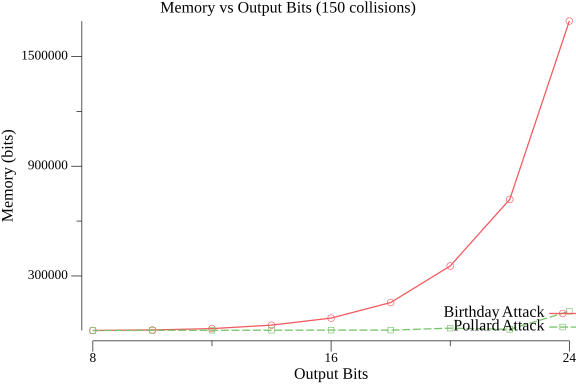
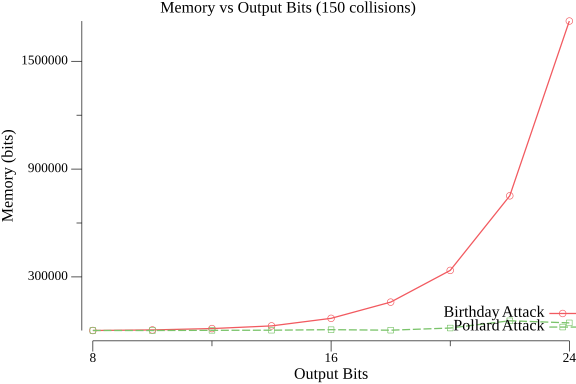
Рабочая версия

diff --git a/lab2/myattacks/pollard_attack.go b/lab2/myattacks/pollard_attack.go
@@ -20,6 +20,7 @@ func randomState(outBits int) (string, error) {
 	return fmt.Sprintf("%0*b", outBits, n), nil
 }
 
+// проверяет, является ли значение отличительным
 func isDistinguished(s string, distinguishedBits int) bool {
 	if len(s) < distinguishedBits {
 		return false
@@ -32,45 +33,22 @@ func isDistinguished(s string, distinguishedBits int) bool {
 	return true
 }
 
-// инъективная функция конкатенации трёх нулей в конец
+// инъективная функция (конкатенация четырёх нулей в конец)
 func P(x string) string {
 	return x + "0000"
 }
 
-func binToHex(binStr string) (string, error) {
-	n, ok := new(big.Int).SetString(binStr, 2)
-	if !ok {
-		return "", errors.New("invalid binary string")
-	}
-	return fmt.Sprintf("%x", n), nil
-}
-
 // Функция для преобразования двоичной строки в байтовый срез
 func binToBytes(binStr string) ([]byte, error) {
-	// Проверка, что строка содержит только '0' и '1'
 	for _, c := range binStr {
 		if c != '0' && c != '1' {
 			return nil, errors.New("binary string contains invalid characters")
 		}
 	}
-	hexStr, _ := binToHex(binStr)
-	// // Дополнение строки нулями слева, чтобы её длина была кратна 8
-	// padding := (8 - len(binStr)%8) % 8
-	// binStr = fmt.Sprintf("%s%s", string(make([]byte, padding)), binStr)
-
-	// // Преобразование в 16-ричную строку
-	// n, ok := new(big.Int).SetString(binStr, 2)
-	// if !ok {
-	// 	return nil, errors.New("invalid binary string")
-	// }
-	// hexStr := fmt.Sprintf("%x", n)
-
-	// // Если длина нечётная, добавляем ведущий 0 (hex требует чётной длины)
+	hexStr, _ := BinToHex(binStr)
 	if len(hexStr)%2 != 0 {
 		hexStr = "0" + hexStr
 	}
-
-	// Декодируем hex в байты
 	return hex.DecodeString(hexStr)
 }
 
@@ -80,9 +58,7 @@ func chainFunc(x string, outBits int) (string, error) {
 	if err != nil {
 		return "", err
 	}
-	// Применяем инъективную функцию:
 	appended := P(hash)
-	// appended имеет длину outBits+3, поэтому берём последние outBits символов:
 	if len(appended) < outBits {
 		return "", errors.New("chainFunc: result length too short")
 	}
@@ -93,11 +69,9 @@ func chainFunc(x string, outBits int) (string, error) {
 // применяем разность d = i - j к цепочке с большим номером, затем итеративно идём синхронно,
 // пока не найдём точное совпадение.
 func findExactCollision(seedA, seedB string, delta int, outBits int) (Collision, error) {
-	//	fmt.Println("Здесь дельта должна быть положительной >>", delta)
+	// предполагаем, что цепочка А длиннее цепочки В
 	var valA, valB string
 	var err error
-	// От итога начальной цепочки длиннее, вычисляем d итераций.
-	// будем начинать с seed длиннее
 	valA = seedA
 	valB = seedB
 	for i := 0; i < delta; i++ {
@@ -121,21 +95,15 @@ func findExactCollision(seedA, seedB string, delta int, outBits int) (Collision,
 	return Collision{}, errors.New("exact collision not found")
 }
 
-// ----------------------- Полная симуляция атаки Полларда -----------------------
-//
-// Здесь мы запускаем несколько цепочек (симуляция параллельности) и сохраняем каждую отличительную точку.
-// Если для одного и того же отличительного значения найдена коллизия (даже внутри одной цепочки),
-// переходим ко второму этапу: находим точное совпадение, используя разность итераций.
+// симуляция параллельной атаки Полларда
 func PollardAttack(outBits int, distinguishedBits int, numColls int, numWorkers int) ([]Collision, int, int, time.Duration, error) {
-	// Массив цепочек: по одной на каждый "поток"
 	chains := make([]Chain, numWorkers)
-	// Глобальный map для хранения отличительных точек: ключ — значение цепочки, значение — сама цепочка
 	dists := make(map[string]Chain)
 	collisions := []Collision{}
 	iterations := 0
 	start := time.Now()
 	successTime := time.Duration(0)
-	//successCount := 0
+	// анонимная функция обнуления цепочек
 	reset := func(chains []Chain, id int, outBits int) error {
 		seed, err := randomState(outBits)
 		if err != nil {
@@ -151,9 +119,9 @@ func PollardAttack(outBits int, distinguishedBits int, numColls int, numWorkers 
 			return nil, iterations, 0, time.Since(start), err
 		}
 	}
-
-	// Основной цикл: обновляем все цепочки, имитируя параллельность.
+	// обновляем все цепочки
 	for len(collisions) < numColls {
+		// если крутимся очнь долго, то всё забываем
 		if iterations >= 10e4 {
 			for i := 0; i < numWorkers; i++ {
 				err := reset(chains, i, outBits)
@@ -169,21 +137,16 @@ func PollardAttack(outBits int, distinguishedBits int, numColls int, numWorkers 
 		}
 		iterations++
 		for i := 0; i < numWorkers; i++ {
-			// Вычисляем новое значение для цепочки i
 			next, err := chainFunc(chains[i].val, outBits)
 			if err != nil {
 				continue
 			}
 			chains[i].steps++
 			chains[i].val = next
-			//fmt.Println("Итерация:", i, "посчитанное значение:", chains[i].val)
-			// Если найдено отличительное значение, проверяем в глобальному слварю
 			if isDistinguished(chains[i].val, distinguishedBits) {
 				if val, exists := dists[chains[i].val]; exists { // если уже была такая отличительная точка
-					//		fmt.Printf("Цепочка %d зерно %s значение %s шаг %d айди %d\n", i, chains[i].seed, chains[i].val, chains[i].steps, chains[i].WID)
 					// Здесь фиксируем коллизию – независимо от того, совпадают ли seed или нет,
 					// поскольку по заданию коллизия может быть найдена даже внутри одной цепочки.
-					// Для точного поиска коллизии переходим ко второму этапу.
 					var longerChain, shorterChain Chain
 					if val.steps >= chains[i].steps {
 						longerChain, shorterChain = val, chains[i]
@@ -200,9 +163,6 @@ func PollardAttack(outBits int, distinguishedBits int, numColls int, numWorkers 
 						collisions = append(collisions, collision)
 						successTime += time.Since(collisionStart)
 					}
-					//	fmt.Printf("Collision (exact) found: %s = %s (worker %d at step %d vs worker %d at step %d, d=%d, coll=%s)\n",
-					//			collision.x, collision.y, longerChain.WID, longerChain.steps, shorterChain.WID, shorterChain.steps, delta, collision.x)
-					//	fmt.Printf("Мы нашли уже %d коллизий! Так держать!\n", len(collisions))
 					// Если нашли, но она уже есть - все эти данные просто выкидываем, считаем запуск плохим и делаем вид, что его и не было никогда.
 					// заново инициализируем цепочки
 					for key, chain := range dists { // удаляем значительную точку
@@ -218,17 +178,12 @@ func PollardAttack(outBits int, distinguishedBits int, numColls int, numWorkers 
 					if err != nil {
 						return nil, iterations, 0, time.Since(start), err
 					}
-					//	fmt.Println("Всё подчистили, иём дальше")
 				} else { // если не было такой отличительной точки, то записываем к себе в словарь
 					dists[chains[i].val] = chains[i]
 				}
 			}
 		}
 	}
-	// avgSuccessTime := time.Duration(0)
-	// if successCount > 0 {
-	// 	avgSuccessTime = successTime / time.Duration(successCount)
-	// }
 	mem := len(dists)*(outBits+3+int(unsafe.Sizeof(chains[0]))) + len(chains)*int(unsafe.Sizeof(chains[0]))*8
 	fmt.Printf("Pollard Attack Simulated (%d-bit): Found %d collisions after %d iterations (%s elapsed).\n",
 		outBits, len(collisions), iterations, successTime)

diff --git a/lab2/main.go b/lab2/main.go
@@ -23,14 +23,11 @@ type Result struct {
 	Collisions []myattacks.Collision
 }
 
-// plotResults строит график и сохраняет его в файл.
-func plotCombinedResults(title, xLabel, yLabel, filename string, series ...interface{}) error {
+func plotResults(title, xLabel, yLabel, filename string, series ...interface{}) error {
 	p := plot.New()
 	p.Title.Text = title
 	p.X.Label.Text = xLabel
 	p.Y.Label.Text = yLabel
-
-	// series должна быть вида: "Лейбл1", pts1, "Лейбл2", pts2, ...
 	if err := plotutil.AddLinePoints(p, series...); err != nil {
 		return err
 	}
@@ -38,7 +35,6 @@ func plotCombinedResults(title, xLabel, yLabel, filename string, series ...inter
 }
 
 func main() {
-	// Запустим эксперименты для разных значений outBits из outBitsList.
 	var bResults []Result
 	var pResults []Result
 
@@ -92,22 +88,20 @@ func main() {
 	}
 	fmt.Println("Collisions for 24-bit output saved to collisions_24.txt")
 
-	// Подготовка данных для построения объединённых графиков
-	// График времени: ось X – outBits, ось Y – среднее время (мс) на одну коллизию
+	// подготовка данных для построения сравнительных графиков
+	// и дальнейщая их постройка
 	bTimePts := make(plotter.XYs, len(bResults))
 	pTimePts := make(plotter.XYs, len(pResults))
 	for i, res := range bResults {
-		avgTime := float64(res.Passed.Milliseconds()) / float64(myattacks.NumCollisionNeeded)
+		time := float64(res.Passed.Milliseconds())
 		bTimePts[i].X = float64(res.OutBits)
-		bTimePts[i].Y = avgTime
+		bTimePts[i].Y = time
 	}
 	for i, res := range pResults {
-		avgTime := float64(res.Passed.Milliseconds()) / float64(myattacks.NumCollisionNeeded)
+		time := float64(res.Passed.Milliseconds())
 		pTimePts[i].X = float64(res.OutBits)
-		pTimePts[i].Y = avgTime
+		pTimePts[i].Y = time
 	}
-
-	// График памяти: ось X – outBits, ось Y – оценка памяти (в байтах)
 	bMemPts := make(plotter.XYs, len(bResults))
 	pMemPts := make(plotter.XYs, len(pResults))
 	for i, res := range bResults {
@@ -118,9 +112,7 @@ func main() {
 		pMemPts[i].X = float64(res.OutBits)
 		pMemPts[i].Y = float64(res.Memory)
 	}
-
-	// Построим объединённые графики (для Birthday Attack и Pollard Rho)
-	err = plotCombinedResults(
+	err = plotResults(
 		"Time vs Output Bits (150 collisions)",
 		"Output Bits", "Time (ms)",
 		"graphs/time_cmp.png",
@@ -130,8 +122,7 @@ func main() {
 	if err != nil {
 		log.Fatal(err)
 	}
-
-	err = plotCombinedResults(
+	err = plotResults(
 		"Memory vs Output Bits (150 collisions)",
 		"Output Bits", "Memory (bits)",
 		"graphs/memory_cmp.png",
@@ -141,6 +132,5 @@ func main() {
 	if err != nil {
 		log.Fatal(err)
 	}
-
-	fmt.Println("Graphs saved as combined_time.png and combined_memory.png")
+	fmt.Println("Graphs saved as time_cmp.png and memory_cmp.png")
 }

diff --git a/lab2/myattacks/commons.go b/lab2/myattacks/commons.go
@@ -7,8 +7,6 @@ import (
 	"math/big"
 )
 
-// --- Константы ---
-// Размер куска хэш-функции для нахождения коллизии
 const (
 	MinOut             = 8
 	MaxOut             = 24
@@ -24,6 +22,7 @@ type Collision struct {
 	Y string
 }
 
+// звено для хранения информации о состоянии цепочки
 type Chain struct {
 	seed  string
 	val   string
@@ -46,6 +45,7 @@ func SHA_xx(msg []byte, outbits int) (string, error) {
 	return fmt.Sprintf("%0*b", outbits, result), nil
 }
 
+// проверяет, встречалась ли такая коллизия ранее
 func containColl(arr []Collision, data Collision) bool {
 	for _, val := range arr {
 		if val.X == data.X && val.Y == data.Y || val.X == data.Y && val.Y == data.X {
@@ -55,6 +55,7 @@ func containColl(arr []Collision, data Collision) bool {
 	return false
 }
 
+// перевод двоичной строки в хекс-значение
 func BinToHex(binStr string) (string, error) {
 	n, ok := new(big.Int).SetString(binStr, 2)
 	if !ok {

diff --git a/lab2/myattacks/birthday_attack.go b/lab2/myattacks/birthday_attack.go
@@ -10,8 +10,6 @@ import (
 )
 
 // Атака на основе парадокса о днях рождения
-// Ищет num коллизий для усечённой хэш функции
-// возвращает список найденных коллизий и кол-во итераций
 func BirthdayAttack(num int, outBits int) ([]Collision, int, int, time.Duration, error) {
 	collisions := []Collision{}
 	dict := make(map[string]string)

diff --git a/lab2/README.md b/lab2/README.md
@@ -1,6 +1,5 @@
 # Лабораторная работа №2: Атаки на хеш-функции
 
-## Описание
 В данной лабораторной работе были реализованы и проанализированы два алгоритма поиска коллизий в хеш-функциях:
 
 - **Атака дней рождений** (Birthday Attack)
@@ -8,12 +7,12 @@
 
 Цель исследования — сравнить эффективность этих методов по скорости работы и потреблению памяти.
 
-В качестве хеш-функции использовался **SHA-256**, но с ограниченным количеством выходных бит (от 8 до 24). Это сделано дл того, чтобы поиск коллизий был быстрее.
+В качестве хеш-функции использовался **SHA-256**, но с ограниченным количеством выходных бит (от 8 до 24). Это сделано дл того, чтобы поиск коллизий был не очень долгим.
 
 ## Реализация
 В проекте реализованы следующие функции:
 - `SHA_xx(msg []byte, outbits int)` - усечённая хэш-фукция на основе SHA-256
-- `BirthdayAttack(num int, outBits int)` — поиск коллизий методом дней рождений.
+- `BirthdayAttack(num int, outBits int)` — атака Дней рождений.
 - `PollardAttack(outBits int, distinguishedBits int, numColls int, numWorkers int)` — атака Полларда.
 
 
@@ -28,4 +27,4 @@
 ### Используемая память
 ![График потребления памяти](./graphs/memory_cmp.png)
 
-Графики показывают, что атака дней рождений работает быстрее, но требует больше памяти. Атака Полларда, напротив, более экономична по памяти, но выполняется дольше. Вид графиков близок к экпоненициальному, что согласовывается с теорией.
+Графики показывают, что Birthday Attack работает быстрее на бОльших значениях Output Bits, но требует больше памяти. Pollard`s Attack, напротив, более экономична по памяти, но выполняется дольше. Вид графиков времени у обоих методов близок к экпоненициальному, что согласовывается с теорией. Однако атака Полларда требует значительно меньше памяти(линейная зависимость), нежели атака Дней рождений(экспоненциальная зависимость).
